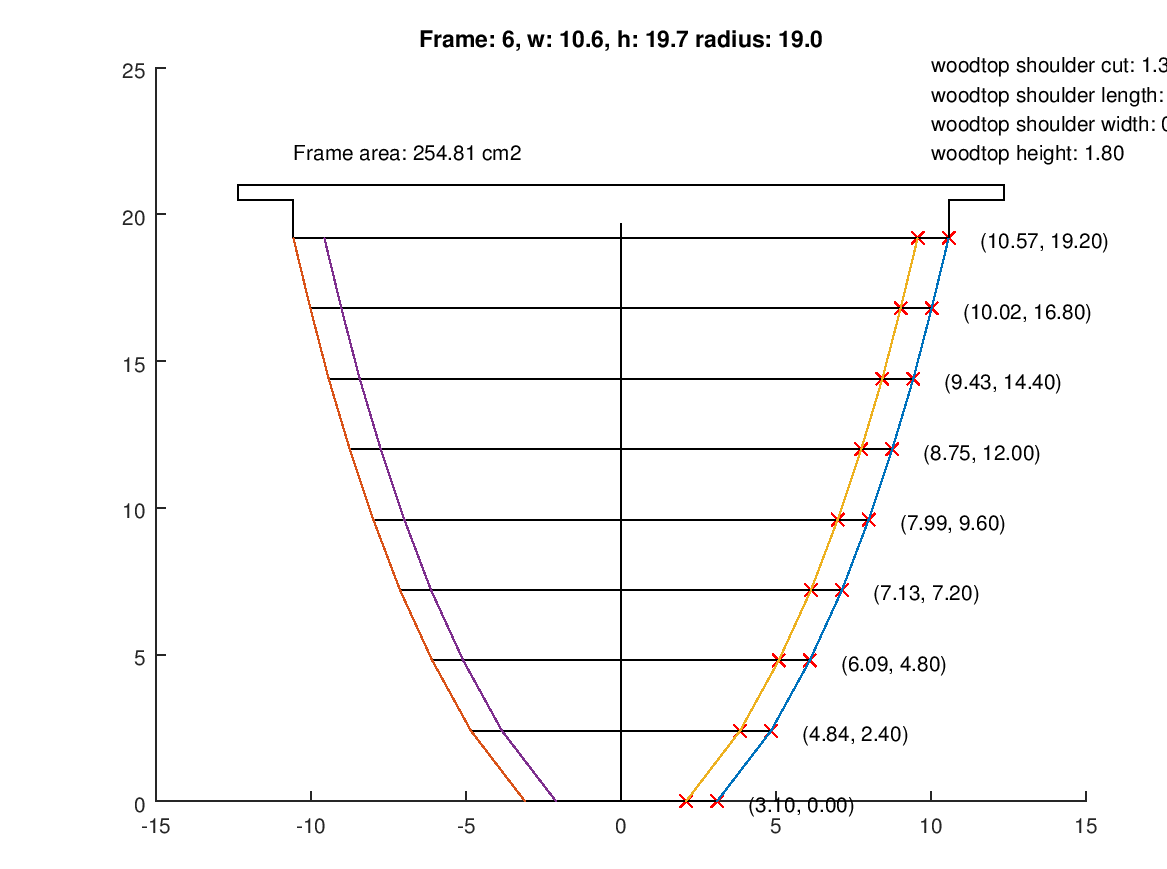
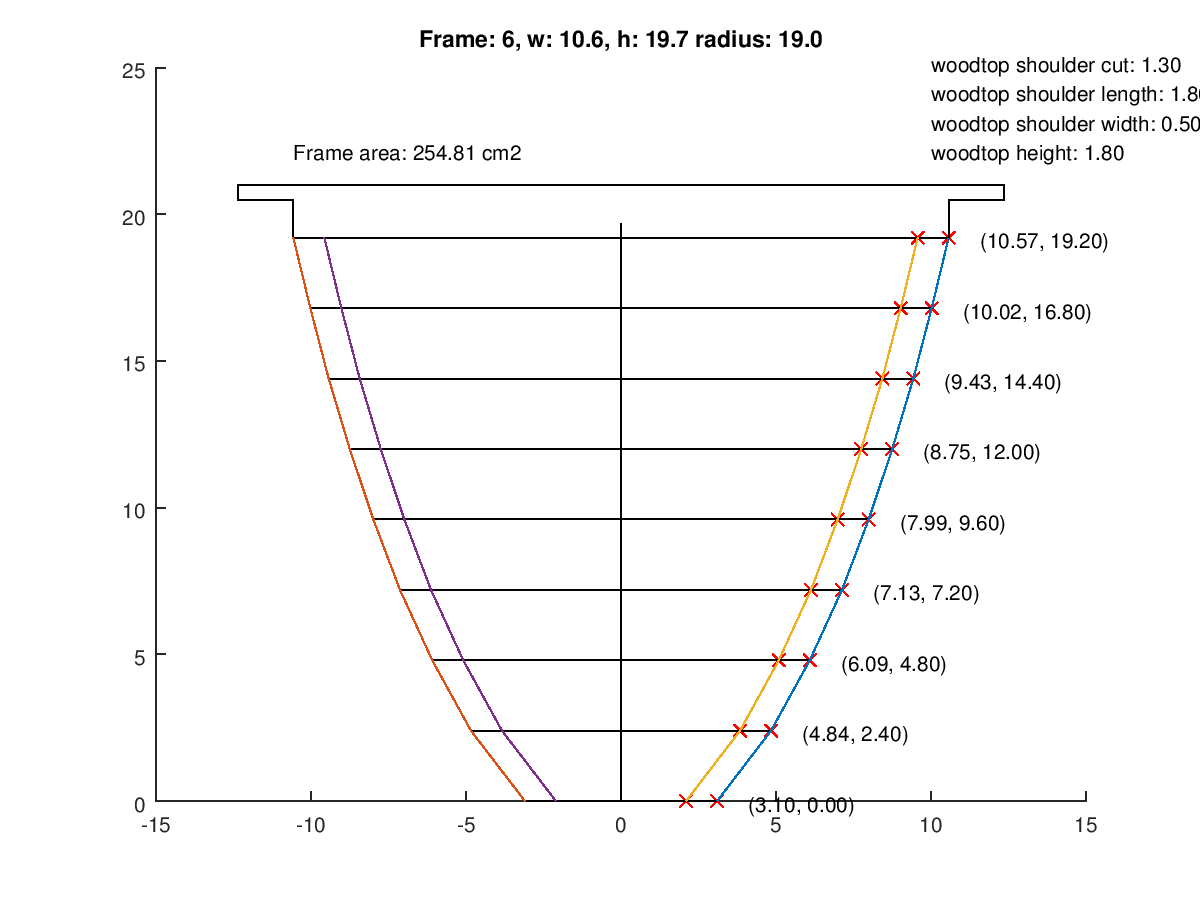
frames calculations done

diff --git a/Catenary3.m b/Catenary3.m
@@ -81,7 +81,7 @@ for a = 5.23
     #save myfile.mat C;
 
     rings = [,];
-    for h = 0:wood_width:45
+    for h = 0:wood_width:hive_height
       i = 3;
       while (i <= rows(C))
          if (C(i-1,2) < h && C(i,2) >= h)
@@ -112,7 +112,7 @@ end
 fig = figure(2);
 hold on;
 plot(x,y);
-axis([-35 45 0 hive_height+10]);
+axis([-35 hive_height 0 hive_height+10]);
 yend = 0;
 
 frames_height=[];
@@ -128,7 +128,7 @@ for cur_height = -19 :3.8:19
     yend = max(find_y_in_matrix(C,cur_height) +2, wood_width +2);    
     
     plot([cur_height cur_height], [ystart yend]);   
-    h = text(cur_height, 45, sprintf("(%0.2f, %0.2f)",cur_height, ystart - yend));
+    h = text(cur_height, hive_height, sprintf("(%0.2f, %0.2f)",cur_height, ystart - yend));
     # get_nearest_y
     set(h,'Rotation',90);
     
